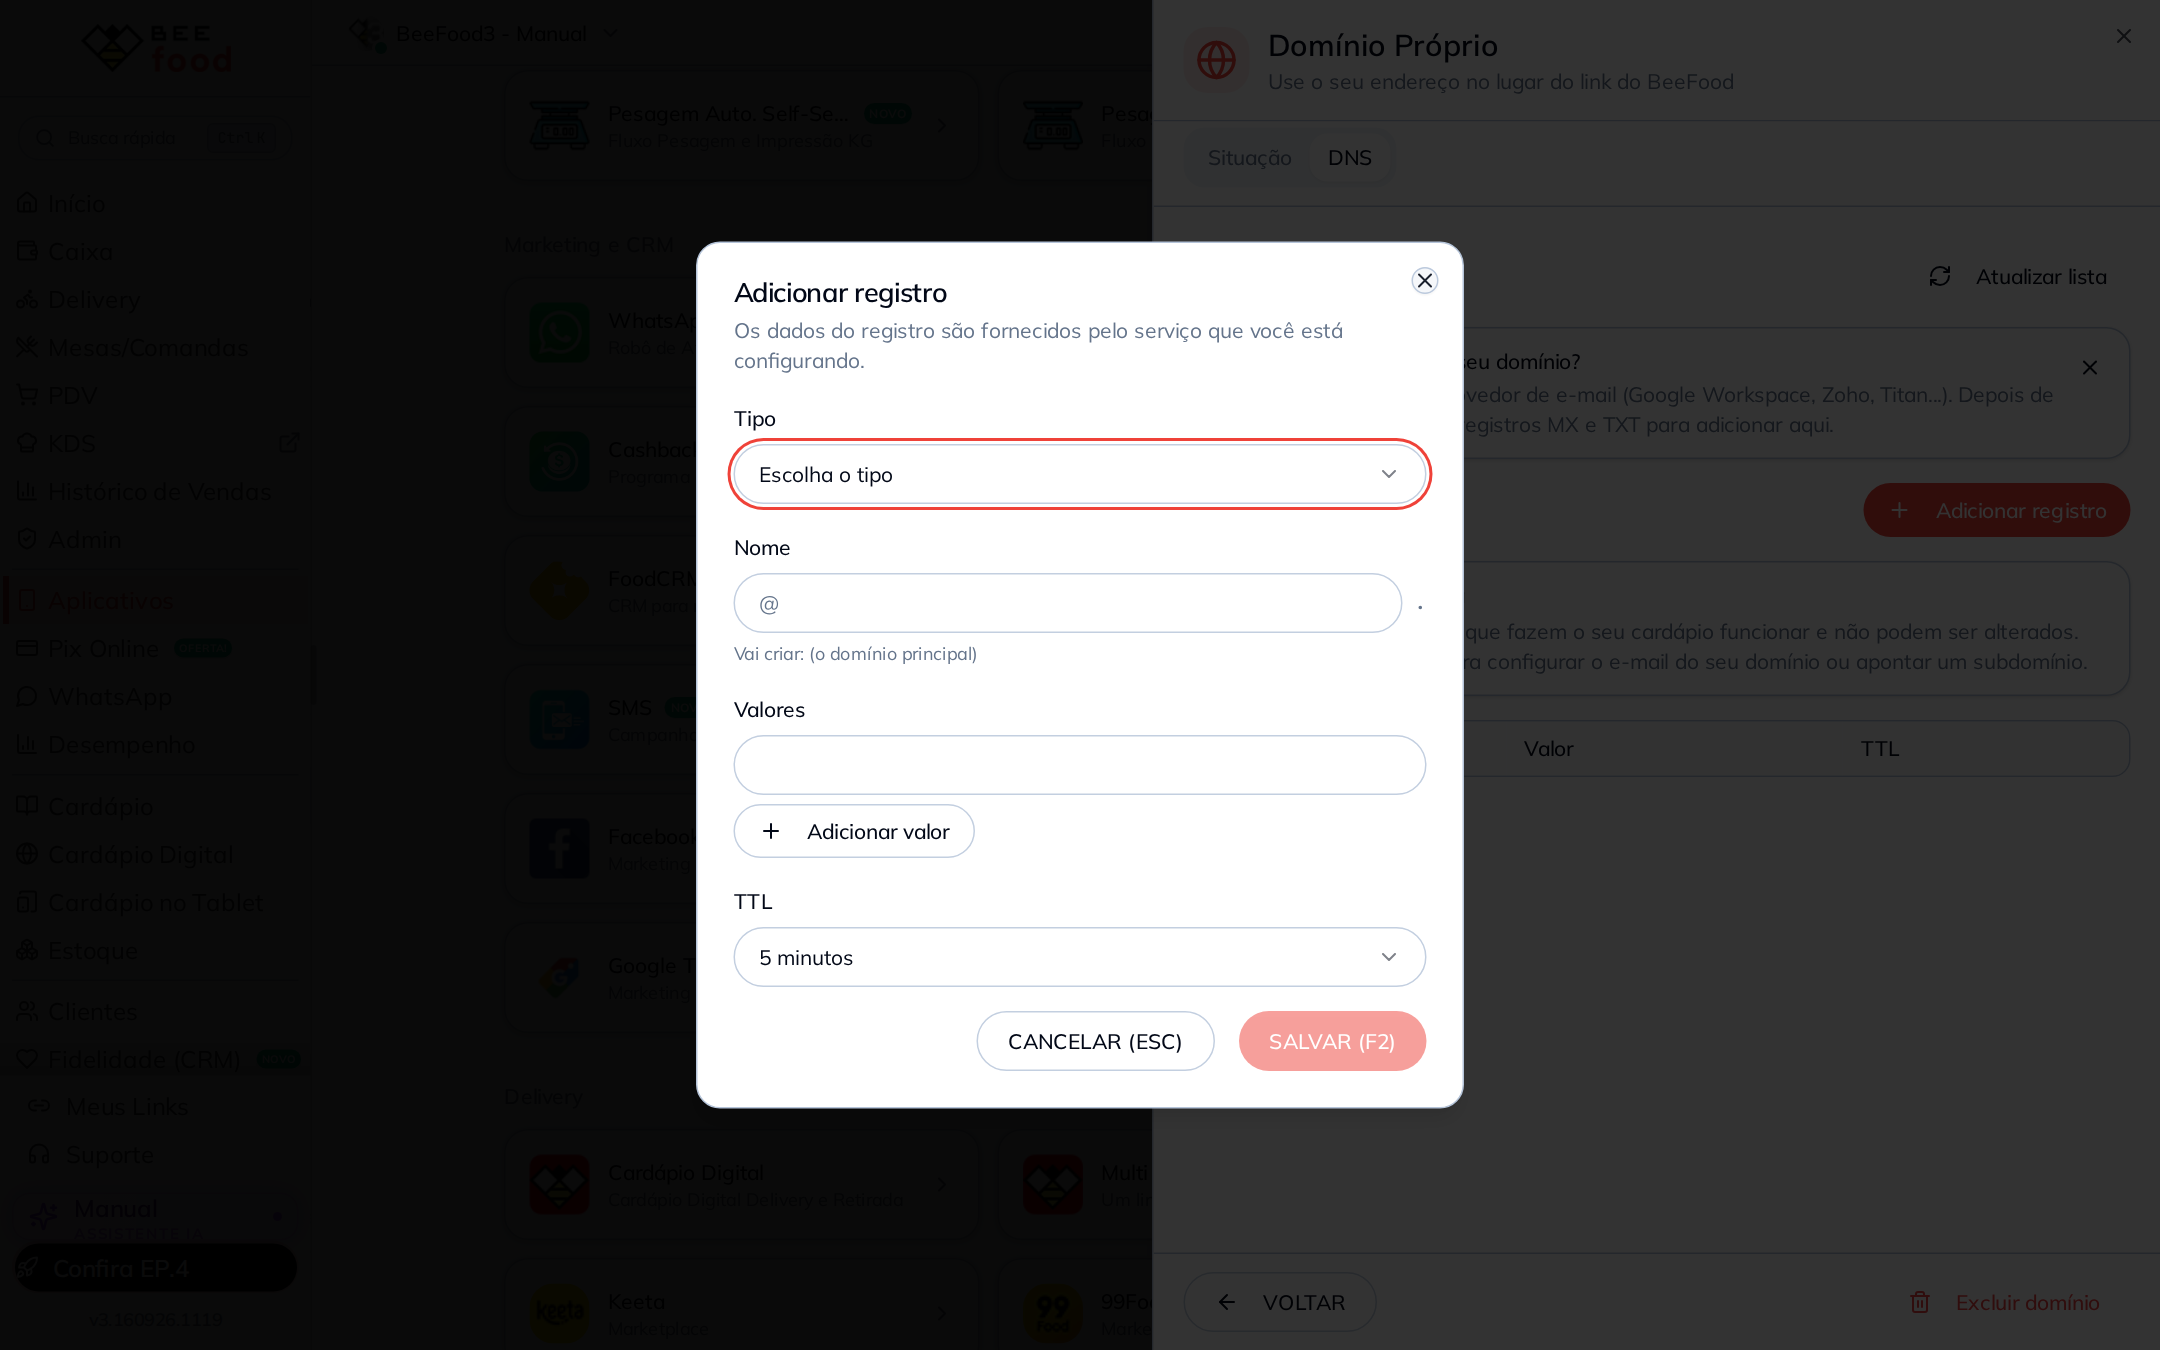
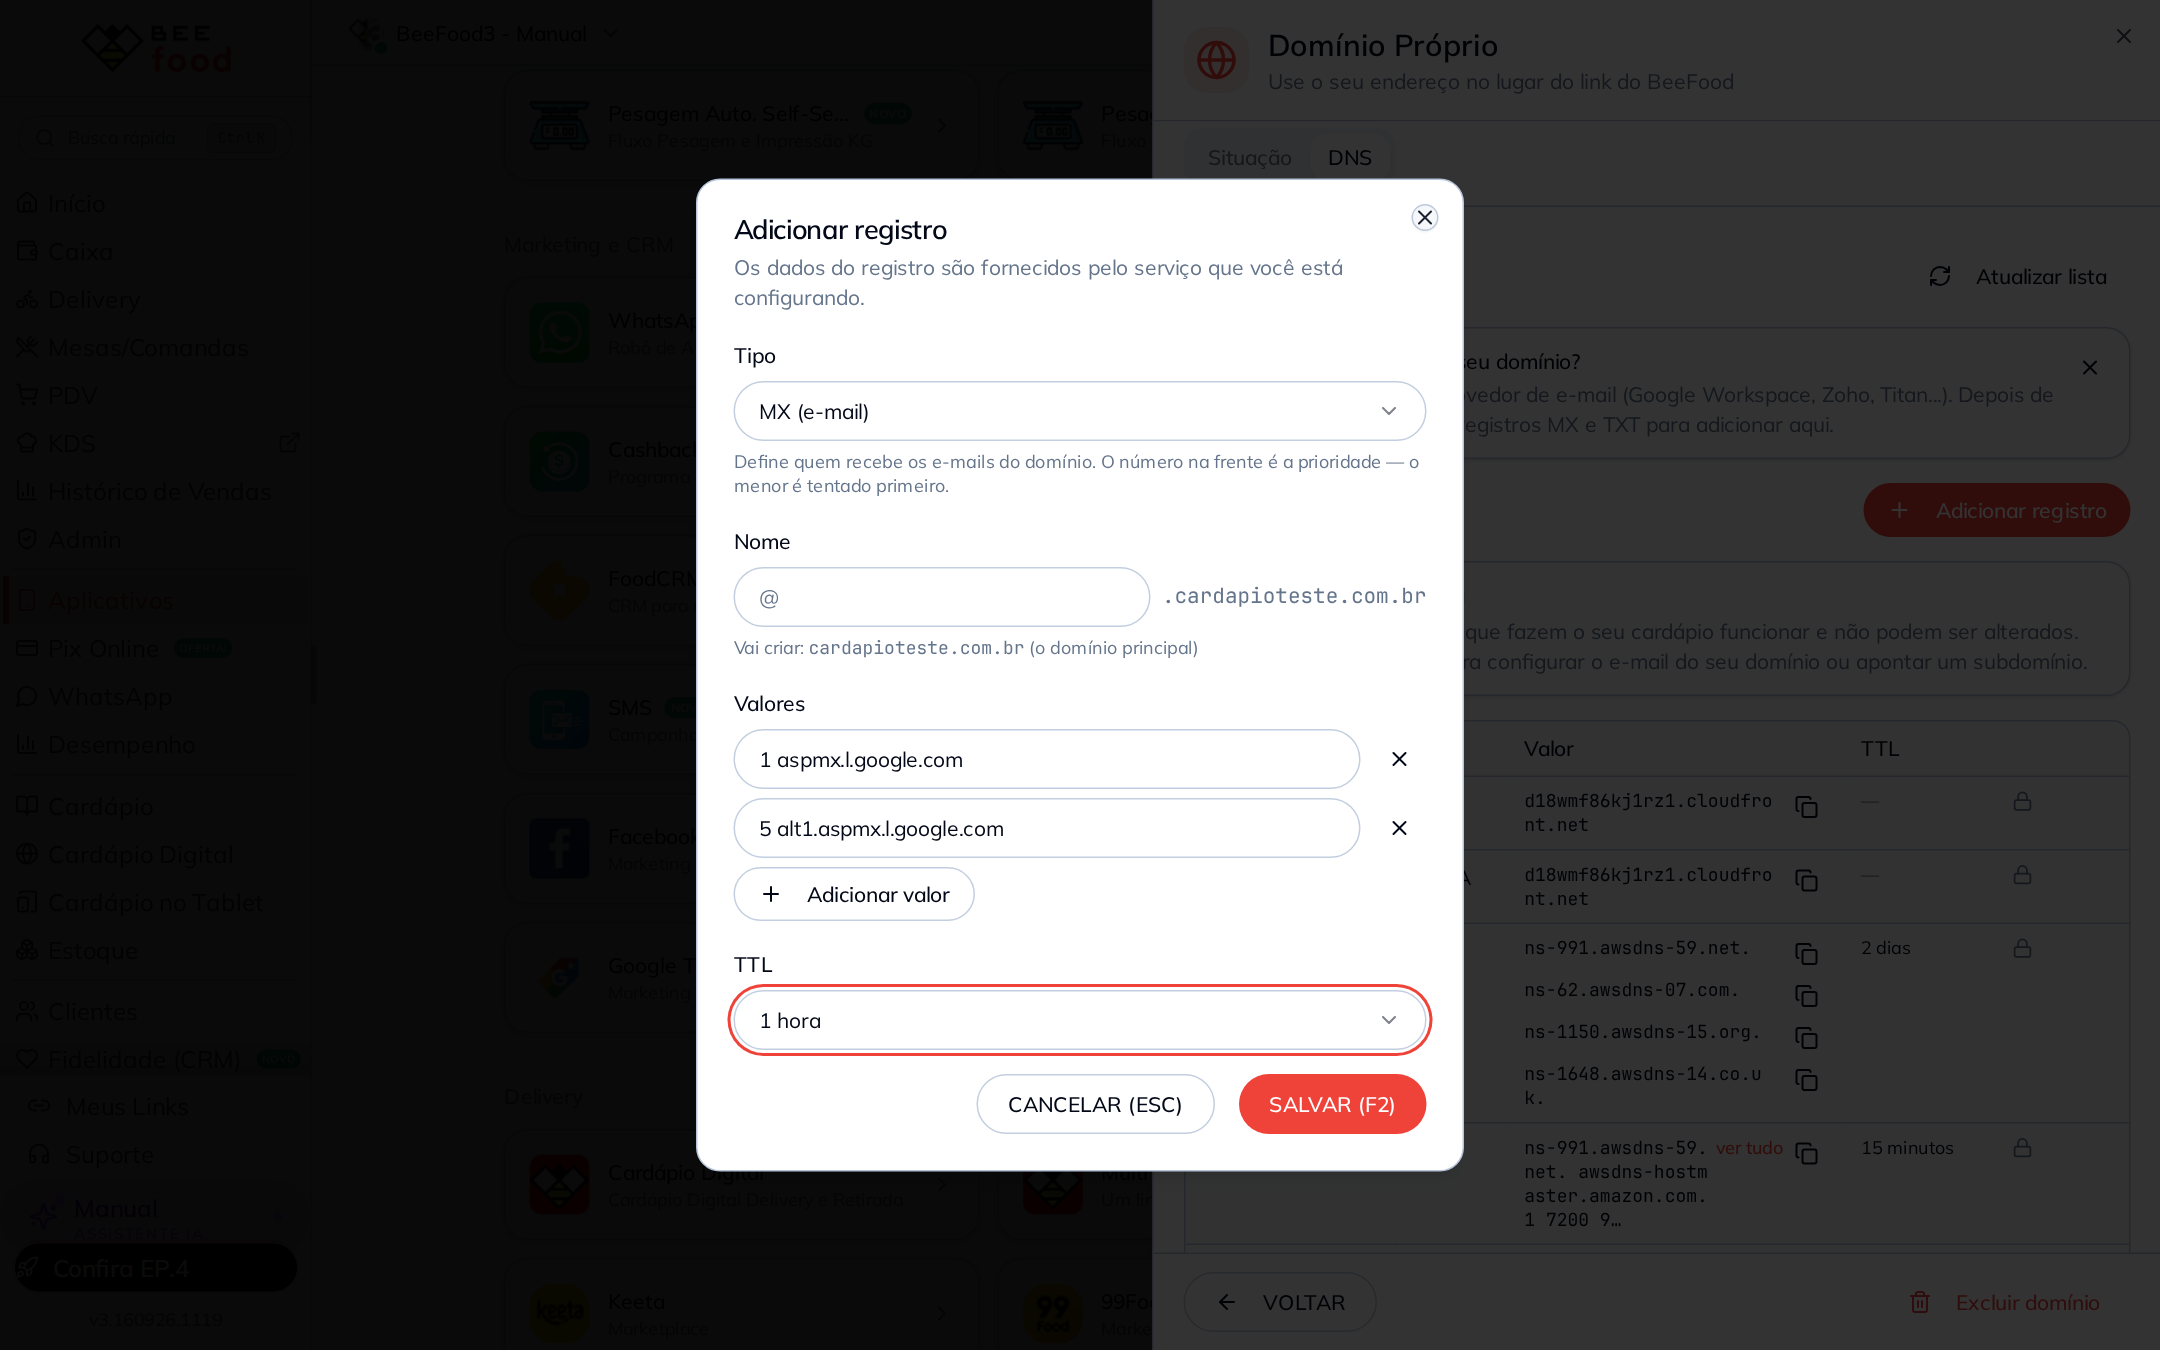
docs(#101): parte 1.2 - alterar a zona DNS (aba DNS, registro MX, propagacao e historico)

diff --git a/manuais/dominio-proprio-configurar/capturar.py b/manuais/dominio-proprio-configurar/capturar.py
@@ -211,6 +211,17 @@ def cap_no_ar(page):
     shot(page, "07-dominio-no-ar.png")
 
 
+MX_VALORES = ["1 aspmx.l.google.com", "5 alt1.aspmx.l.google.com"]
+
+
+def escolher_opcao(page, combo, nome: str):
+    """Select do shadcn: abre o gatilho e clica na opção (que vive fora do modal)."""
+    combo.click()
+    page.wait_for_timeout(700)
+    page.get_by_role("option", name=nome, exact=True).first.click()
+    page.wait_for_timeout(700)
+
+
 def cap_dns(page):
     s = abrir_modal(page)
     escolher_cardapio(page, s, 7000)
@@ -219,9 +230,19 @@ def cap_dns(page):
     print("=== ABA DNS ===")
     print(s.inner_text()[:3000])
     shot(page, "08-aba-dns.png")
+
     s.get_by_role("button", name="Adicionar registro").click()
     after_click(page, 2500)
-    form = page.locator('[role="dialog"]').filter(has_text="Adicionar registro").last
+    form = page.locator('[role="dialog"]').filter(has_text="Os dados do registro").last
+    combos = form.get_by_role("combobox")
+    escolher_opcao(page, combos.nth(0), "MX (e-mail)")          # tipo
+    campos = form.locator('input[placeholder="10 mx.provedor.com"]')
+    campos.first.fill(MX_VALORES[0])
+    form.get_by_role("button", name="Adicionar valor").click()
+    page.wait_for_timeout(600)
+    campos.nth(1).fill(MX_VALORES[1])
+    escolher_opcao(page, combos.nth(1), "1 hora")               # ttl
+    after_click(page, 1500)
     print("=== FORM DNS ===")
     print(form.inner_text()[:1500])
     shot(page, "09-form-registro.png")
@@ -229,19 +250,89 @@ def cap_dns(page):
         print("DRY: paro antes de SALVAR o registro")
         return
 
+    form.get_by_role("button", name="SALVAR (F2)").click()
+    page.wait_for_timeout(3000)
+    shot(page, "10-registro-criado.png")
+    print("=== DEPOIS DE SALVAR ===")
+    print(s.inner_text()[:3000])
+
+
+def cap_dns_editar(page):
+    """Altera o TTL do registro MX: é a alteração que faz aparecer o aviso de propagação."""
+    s = abrir_modal(page)
+    escolher_cardapio(page, s, 7000)
+    s.get_by_role("tab", name="DNS").click()
+    after_click(page, 6000)
+    linha = s.locator("tr", has_text="MX").first
+    linha.locator("button").filter(has=page.locator("svg")).nth(-2).click()
+    after_click(page, 2500)
+    form = page.locator('[role="dialog"]').filter(has_text="Para mudar o nome ou o tipo").last
+    print("=== FORM EDICAO ===")
+    print(form.inner_text()[:1200])
+    escolher_opcao(page, form.get_by_role("combobox").nth(1), "5 minutos")
+    if DRY:
+        print("DRY: paro antes de SALVAR a alteração")
+        return
+    form.get_by_role("button", name="SALVAR (F2)").click()
+    page.wait_for_timeout(4000)
+    shot(page, "11-propagacao.png")
+    print("=== DEPOIS DA ALTERACAO ===")
+    print(s.inner_text()[:1500])
+
+    hist = s.get_by_role("button", name="Histórico de alterações")
+    hist.scroll_into_view_if_needed()
+    hist.click()
+    after_click(page, 2000)
+    linhas = s.locator('button:has-text("Alterou")')
+    if linhas.count():
+        linhas.first.click()
+        after_click(page, 1500)
+    cap_historico(page, s)
+
+
+def cap_historico(page, s):
+    """O histórico fica no pé da lista: rola o painel até o fim antes de fotografar."""
+    ultima = s.locator('button:has-text("Criou")').last
+    if ultima.count():
+        ultima.scroll_into_view_if_needed()
+    for _ in range(6):
+        page.mouse.wheel(0, 600)
+        page.wait_for_timeout(300)
+    page.wait_for_timeout(1200)
+    shot(page, "12-historico-dns.png")
+    print(s.inner_text()[-1200:])
+
+
+def cap_dns_hist(page):
+    """Só o histórico: abre a aba DNS, expande e rola até o fim."""
+    s = abrir_modal(page)
+    escolher_cardapio(page, s, 7000)
+    s.get_by_role("tab", name="DNS").click()
+    after_click(page, 6000)
+    hist = s.get_by_role("button", name="Histórico de alterações")
+    hist.scroll_into_view_if_needed()
+    hist.click()
+    after_click(page, 2000)
+    for rot in ("Alterou", "Criou"):
+        linha = s.locator(f'button:has-text("{rot}")').first
+        if linha.count():
+            linha.click()
+            after_click(page, 1200)
+    cap_historico(page, s)
+
 
 def cap_excluir(page):
     s = abrir_modal(page)
     escolher_cardapio(page, s, 7000)
     s.get_by_role("button", name="Excluir domínio").click()
     after_click(page, 2500)
-    shot(page, "12-confirmar-exclusao.png")
+    shot(page, "14-confirmar-exclusao.png")
     if DRY:
         print("DRY: paro antes de confirmar a exclusão")
         return
     page.get_by_role("button", name="Excluir (ENTER)").click()
     after_click(page, 8000)
-    shot(page, "13-apos-exclusao.png")
+    shot(page, "15-apos-exclusao.png")
 
 
 def cap_sub(page):
@@ -250,14 +341,14 @@ def cap_sub(page):
     escolher_tipo(page, s, apex=False)
     digitar_endereco(page, s, DOMINIO_SUB)
     print(s.inner_text()[:2000])
-    shot(page, "14-subdominio-conferido.png")
+    shot(page, "16-subdominio-conferido.png")
     if DRY:
         print("DRY: paro antes de CADASTRAR DOMÍNIO")
         return
     s.get_by_role("button", name="CADASTRAR DOMÍNIO").click()
     after_click(page, 8000)
     if esperar_instrucao(page, s):
-        shot(page, "15-instrucao-cname.png")
+        shot(page, "17-instrucao-cname.png")
     print("=== SITUACAO ===")
     print(s.inner_text()[:3000])
 
@@ -266,7 +357,7 @@ def cap_sub_no_ar(page):
     s = abrir_modal(page)
     escolher_cardapio(page, s, 7000)
     print(s.inner_text()[:3000])
-    shot(page, "16-subdominio-no-ar.png")
+    shot(page, "18-subdominio-no-ar.png")
 
 
 ETAPAS = {
@@ -275,6 +366,8 @@ ETAPAS = {
     "verificar": cap_verificar,
     "no-ar": cap_no_ar,
     "dns": cap_dns,
+    "dns-editar": cap_dns_editar,
+    "dns-hist": cap_dns_hist,
     "excluir": cap_excluir,
     "sub": cap_sub,
     "sub-no-ar": cap_sub_no_ar,

diff --git a/manuais/dominio-proprio-configurar/annotate.py b/manuais/dominio-proprio-configurar/annotate.py
@@ -156,15 +156,47 @@ painel("07-dominio-no-ar.png",
                 (2, 1187, 395, 1065, 395),
                 (3, 1190, 600, 1065, 600)])
 
-# --- 11 Rodapé do painel: o botão de excluir (recorte da mesma captura do No ar) --
-annotate("07-dominio-no-ar.png", out_name="11-excluir-botao.png",
-         markers=[(1, 1900, 1310, 1660, 1310)],
-         crop=(1154, 1262, 2160, 1350), pad_left=0, r=RAIO, w=TRACO)
+# --- 08 Aba DNS: a zona como o BeeFood deixou -------------------------------
+painel("08-aba-dns.png",
+       markers=[(1, 1178, 158, 1065, 158),
+                (2, 1840, 503, 1065, 503),
+                (3, 1185, 749, 1065, 749)],
+       ring=[(1316, 128, 1392, 190)])
 
-# --- 12 Confirmação da exclusão (diálogo no centro da tela) -----------------
-annotate("12-confirmar-exclusao.png",
-         markers=[(1, 705, 593, 620, 593),
+# --- 09 Formulário do registro (diálogo no centro, com o painel atrás) ------
+dialogo = dict(pad_left=MARGEM, r=RAIO, w=TRACO)
+annotate("09-form-registro.png",
+         markers=[(1, 740, 400, 565, 400),
+                  (2, 740, 580, 565, 580),
+                  (3, 740, 759, 565, 759),
+                  (4, 740, 1019, 565, 1019),
+                  (5, 1334, 1122, 1334, 1216)],
+         crop=(640, 100, 2160, 1280), **dialogo)
+
+# --- 10 Registro criado -----------------------------------------------------
+painel("10-registro-criado.png",
+       markers=[(1, 1185, 645, 1065, 645)],
+       ring=[(1998, 616, 2114, 688)])
+
+# --- 11 Alteração no ar + aviso de propagação -------------------------------
+painel("11-propagacao.png",
+       markers=[(1, 1185, 368, 1065, 368),
+                (2, 1185, 792, 1065, 792)])
+
+# --- 12 Histórico de alterações da zona -------------------------------------
+painel("12-historico-dns.png",
+       markers=[(1, 1185, 956, 1065, 956),
+                (2, 1185, 1090, 1065, 1090)])
+
+# --- 13 Rodapé do painel: o botão de excluir (painel inteiro, sem zoom) -----
+annotate("07-dominio-no-ar.png", out_name="13-excluir-botao.png",
+         markers=[(1, 1900, 1301, 1065, 1301)],
+         crop=PAINEL, **dialogo)
+
+# --- 14 Confirmação da exclusão (diálogo no centro, com o painel atrás) -----
+annotate("14-confirmar-exclusao.png",
+         markers=[(1, 705, 593, 565, 593),
                   (2, 1358, 782, 1358, 872)],
-         crop=(680, 470, 1500, 920), pad_left=MARGEM, r=RAIO, w=TRACO)
+         crop=(640, 100, 2160, 1280), **dialogo)
 
 print("done")

diff --git a/manuais/dominio-proprio-configurar/dominio-proprio-configurar.md b/manuais/dominio-proprio-configurar/dominio-proprio-configurar.md
@@ -27,7 +27,7 @@ o processo até o domínio ficar **No ar**.
    ela muda o que você precisa fazer no registrador e, no caso do domínio principal,
    mexe no e-mail.
 4. Cada cardápio da conta aceita **um** domínio por vez. Para trocar, exclua o atual
-   (Parte 6) e cadastre outro.
+   (Parte 8) e cadastre outro.
 
 ---
 
@@ -187,7 +187,93 @@ segurança.
 
 ---
 
-## 7. Parte 1 — domínio próprio: excluir o domínio
+## 7. Parte 1 — domínio próprio: alterar a zona DNS
+
+Quando você troca os servidores DNS para os do BeeFood, **toda a zona do domínio
+passa a morar aqui** — inclusive o que não é cardápio. É por isso que existe a aba
+**DNS**: sem ela, configurar o e-mail do domínio ou apontar outro serviço exigiria
+voltar ao registrador, onde o domínio já não é mais gerenciado.
+
+> Essa aba só aparece no **domínio próprio**. No subdomínio (Parte 9) a zona continua
+> no seu registrador, então quem manda lá é você.
+
+Com o domínio no ar, clique na aba **DNS** (1). A tela mostra a zona inteira: os
+registros que o BeeFood criou vêm com **cadeado** e não podem ser mexidos (3) — são
+eles que fazem o cardápio abrir e o `https` funcionar. Para criar o que é seu, use
+**Adicionar registro** (2).
+
+![Aba DNS com a zona do domínio](imagens-tratadas/08-aba-dns.png)
+
+| Nº | Item | O que fazer |
+|----|------|-------------|
+| 1. | **Aba DNS** | Fica ao lado de *Situação*. Só existe depois que o domínio está no ar. |
+| 2. | **Adicionar registro** | Cria um registro seu. É por aqui que entram o e-mail e outros serviços. |
+| 3. | **Lista da zona** | Nome, tipo, valor e TTL. Os de cadeado são do BeeFood; o ícone ao lado do valor copia o conteúdo. |
+
+O motivo mais comum de mexer aqui é o **e-mail do domínio**. Contrate o provedor
+(Google Workspace, Zoho, Titan…), pegue com ele os registros e traga para cá. No
+exemplo abaixo entram os dois **MX** do Google Workspace.
+
+Escolha o **Tipo** (1) — a tela explica cada um e mostra um exemplo do valor. Em
+**Nome** (2), deixe vazio para o domínio principal (o `@`): logo abaixo do campo a
+tela confirma o que vai criar. Em **Valores** (3), cole um valor por linha, usando
+**Adicionar valor** para a segunda; no MX, o número na frente é a prioridade — o
+menor é tentado primeiro. O **TTL** (4) é quanto tempo o valor fica guardado por aí:
+5 minutos para o que você ainda vai mexer, 1 hora para o que é estável. Salve em
+**SALVAR (F2)** (5).
+
+![Formulário do registro DNS](imagens-tratadas/09-form-registro.png)
+
+| Nº | Item | O que fazer |
+|----|------|-------------|
+| 1. | **Tipo** | A, AAAA, CNAME, MX, TXT, SRV ou CAA. Quem informa é o serviço que você está configurando. |
+| 2. | **Nome** | Vazio ou `@` = o domínio principal. `loja` cria `loja.seudominio.com.br`. |
+| 3. | **Valores** | Um por linha. O `x` remove uma linha; **Adicionar valor** acrescenta outra. |
+| 4. | **TTL** | Tempo de cache. Na dúvida, deixe o padrão. |
+| 5. | **SALVAR (F2)** | Grava. O atalho **F2** faz o mesmo. |
+
+O registro novo entra no topo da lista, destacado por alguns segundos (1). Na linha
+dele ficam os dois botões que os registros do BeeFood não têm (moldura): o **lápis**
+edita e a **lixeira** remove.
+
+![Registro criado na zona](imagens-tratadas/10-registro-criado.png)
+
+| Nº | Item | O que fazer |
+|----|------|-------------|
+| 1. | **Registro novo** | Confira nome, tipo, valores e TTL. É o que o mundo vai ler. |
+
+Para alterar, clique no lápis: tipo e nome ficam travados (para trocá-los, remova e
+crie outro) e você muda valores e TTL. Depois de salvar uma alteração aparece o aviso
+de propagação (1): a mudança já está no ar, mas o valor antigo pode continuar valendo
+em alguns provedores pelo tempo do TTL anterior. A linha já mostra o valor novo (2).
+
+![Aviso de propagação depois da alteração](imagens-tratadas/11-propagacao.png)
+
+| Nº | Item | O que fazer |
+|----|------|-------------|
+| 1. | **Aviso de propagação** | Só informa. O tempo mostrado é o TTL que valia antes da mudança. |
+| 2. | **Linha alterada** | Já com o valor novo. Se não bateu, clique em **Atualizar lista**. |
+
+Remover é igual: clique na lixeira e confirme. A confirmação repete nome, tipo e
+valores do registro, porque o serviço ligado a ele para de funcionar na hora.
+
+Toda mudança fica registrada em **Histórico de alterações** (1), no pé da lista. Cada
+linha abre e mostra **Antes** e **Depois** (2), com o TTL em segundos — é onde você
+descobre o que foi alterado e quando, se o e-mail parar de repente.
+
+![Histórico de alterações da zona](imagens-tratadas/12-historico-dns.png)
+
+| Nº | Item | O que fazer |
+|----|------|-------------|
+| 1. | **Histórico de alterações** | Clique para abrir. Lista criações, alterações e remoções com data e hora. |
+| 2. | **Antes e depois** | Clique na linha para ver os valores antigos e os novos. |
+
+> Não tente apagar ou alterar os registros de cadeado. São eles que fazem o cardápio
+> responder no seu endereço; sem eles o site sai do ar.
+
+---
+
+## 8. Parte 1 — domínio próprio: excluir o domínio
 
 Excluir serve para dois casos: você quer **trocar** o endereço (cadastrar outro no
 lugar) ou vai **devolver o domínio** ao seu site antigo. Não é a mesma coisa que
@@ -196,7 +282,7 @@ desligar o cardápio: o cardápio continua no ar pelo endereço
 
 No rodapé do painel, clique em **Excluir domínio** (1).
 
-![Rodapé do painel com o botão Excluir domínio](imagens-tratadas/11-excluir-botao.png)
+![Rodapé do painel com o botão Excluir domínio](imagens-tratadas/13-excluir-botao.png)
 
 | Nº | Item | O que fazer |
 |----|------|-------------|
@@ -206,7 +292,7 @@ A confirmação (1) diz exatamente o que vai acontecer: o endereço para de func
 quem acessar por ele não encontra mais o cardápio. Para confirmar, clique em
 **Excluir (ENTER)** (2) — ou pressione **ENTER**. Para desistir, **Não (ESC)**.
 
-![Confirmação da exclusão do domínio](imagens-tratadas/12-confirmar-exclusao.png)
+![Confirmação da exclusão do domínio](imagens-tratadas/14-confirmar-exclusao.png)
 
 | Nº | Item | O que fazer |
 |----|------|-------------|
